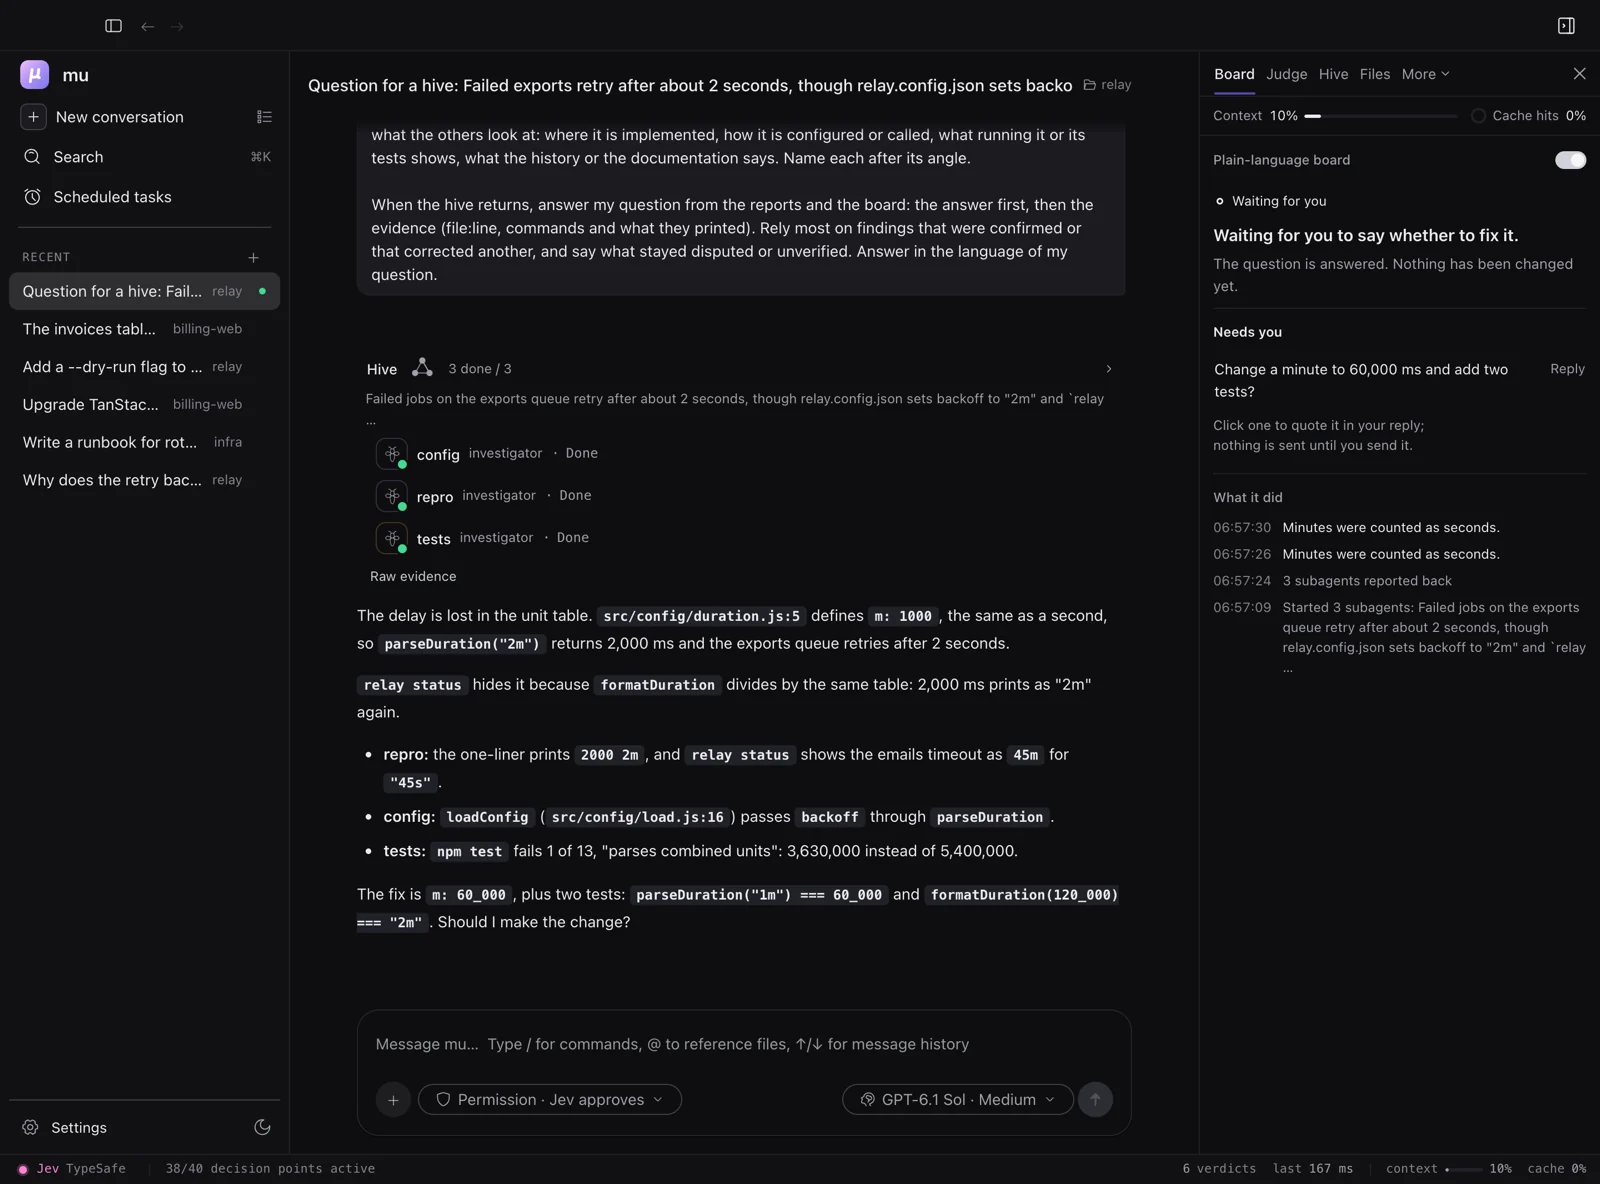
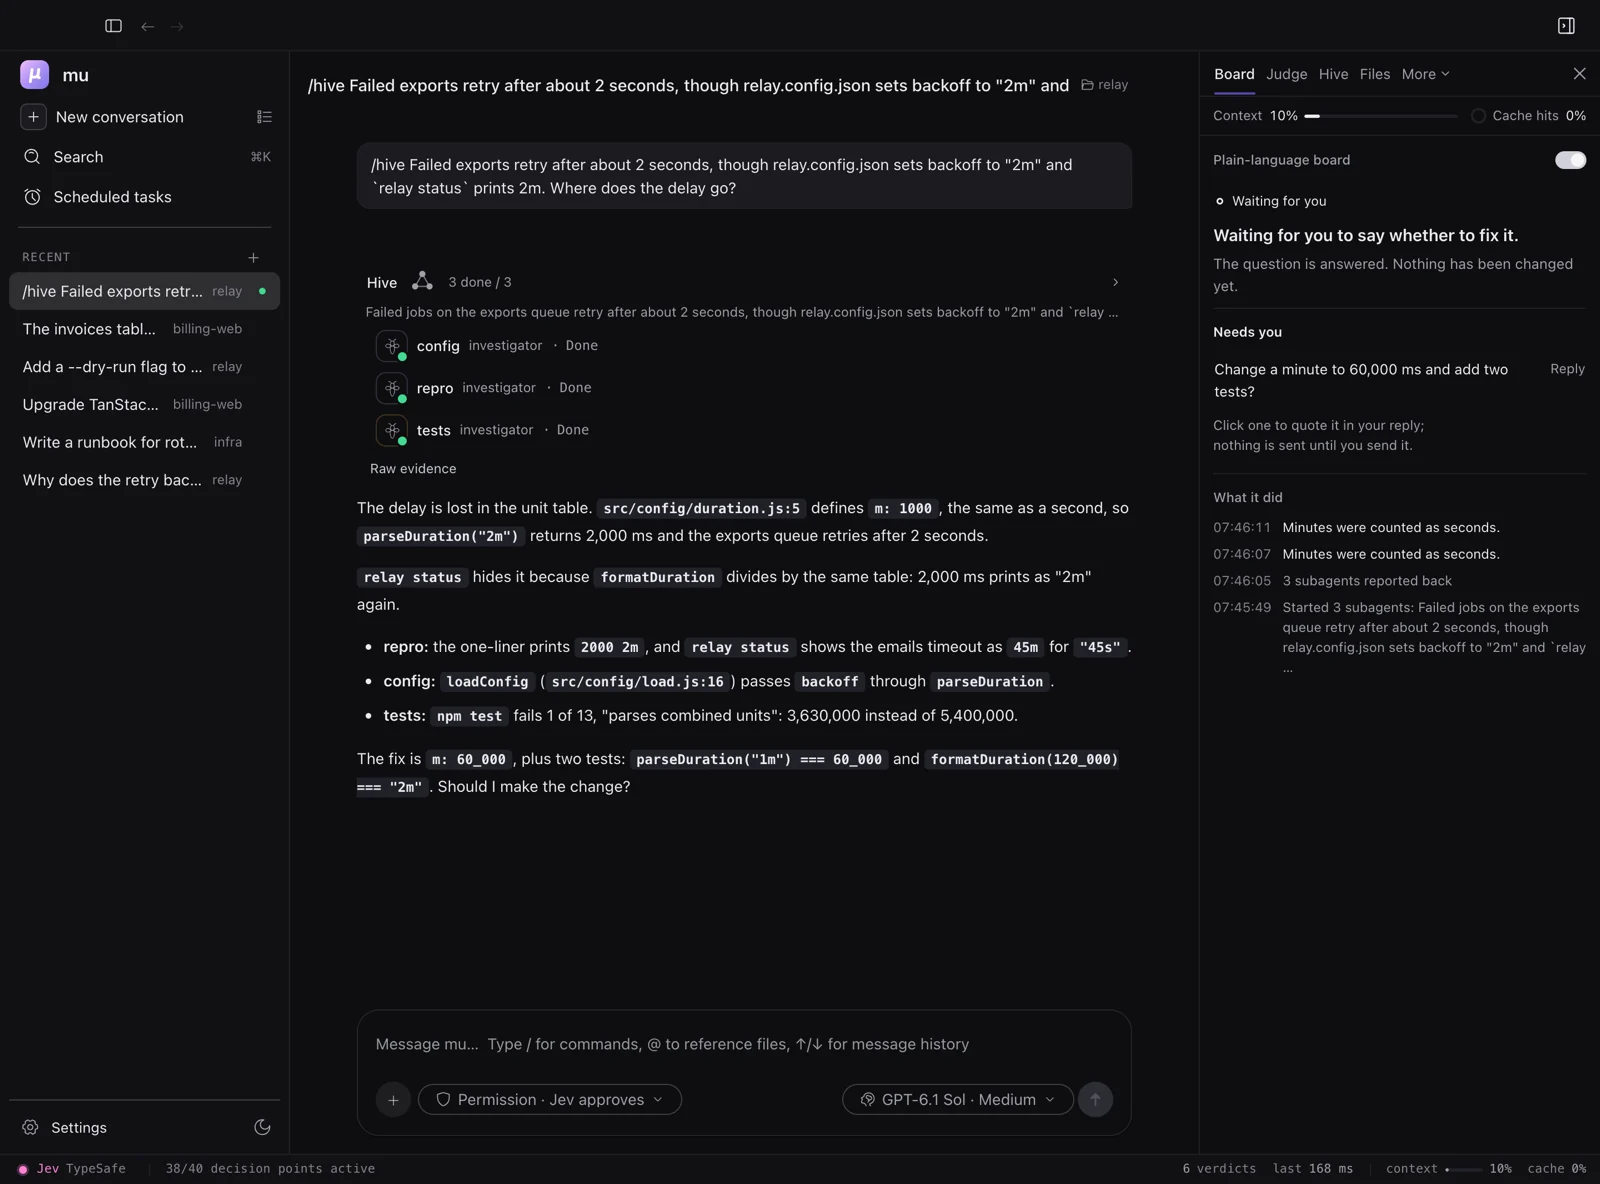
fix(kyrn-judge): /hive shows what you typed; the request to the model goes as a hidden message
`/hive <question>` sent its whole request as the user message, so the chat bubble and the
conversation's title held a paragraph written for the model ("Question for a hive: ... Call the
`hive` tool now ... When the hive returns ..."), in English even in a Chinese session.

The command now sends what was typed as the user message, and `before_agent_start` adds the request
to that turn as a custom message with display: false (kyrn.hive-request), which the model reads and
the TUI and the desktop app don't show. A /hive queued behind a running turn joins that loop, where
no new turn starts to attach the message to, so it still sends the request as its message.

The README and site Hive and board pictures are taken again with the change.

diff --git a/packages/kyrn-judge/src/extension/features/hive.ts b/packages/kyrn-judge/src/extension/features/hive.ts
@@ -640,20 +640,37 @@ export function registerHive(runtime: KyrnRuntime, runner: SwarmRunner = spawnRu
 /** How long `/hive` in print mode waits for the turn it asked for to start. It takes that long only when something is wrong. */
 const TURN_START_MS = 60_000;
 
+/** Custom message type of the request to start a hive: the model reads it, the chat does not show it. */
+export const HIVE_REQUEST_ENTRY = "kyrn.hive-request";
+
 /**
  * `/hive <question>`: a person asks for a hive. The command sends the question
  * with the request to put a hive on it at once (`hiveRequest`); the main model
  * plans the bees, because it knows the project and the angles. Without a
  * question, `/hive` is `/swarm`, as it always was.
  *
- * The request is a user message the command sends, so the turn runs as a typed
- * message's would. Print mode is the exception: it ends the process when the
- * command returns, so there the command waits for the turn it started to end.
+ * The command sends what was typed as a user message, so the turn runs as a
+ * typed message's would and the chat shows `/hive <question>`. The request goes
+ * with it as a hidden message of that turn: it is written for the model, in
+ * English, and would otherwise sit in the person's bubble. Print mode ends the
+ * process when the command returns, so there the command waits for the turn it
+ * started to end.
  */
 function registerHiveCommand(runtime: KyrnRuntime): void {
 	const { pi } = runtime;
 	/** The turn a waiting `/hive` asked for: whether it has started, and what to call when it is over. */
 	let waiting: { started: boolean; over: () => void } | undefined;
+	/** The request for the turn `/hive` is about to start, matched by what it sends as the user message. */
+	let request: { typed: string; text: string } | undefined;
+	pi.on(
+		"before_agent_start",
+		failOpen((event) => {
+			const pending = request;
+			request = undefined;
+			if (!pending || event.messageType !== "user" || event.prompt !== pending.typed) return undefined;
+			return { message: { customType: HIVE_REQUEST_ENTRY, content: pending.text, display: false } };
+		}),
+	);
 	pi.on(
 		"agent_start",
 		failOpen(() => {
@@ -716,9 +733,10 @@ function registerHiveCommand(runtime: KyrnRuntime): void {
 				refuse("No model is selected. Run /login, then /model.");
 				return;
 			}
-			const request = hiveRequest(asked.question);
 			if (!ctx.isIdle()) {
-				pi.sendUserMessage(request, { deliverAs: "followUp" });
+				// A queued message joins the running loop, which starts no new turn to attach the request to:
+				// the request goes in the message itself.
+				pi.sendUserMessage(hiveRequest(asked.question), { deliverAs: "followUp" });
 				ctx.ui.notify("The hive will start when the current turn ends.", "info");
 				return;
 			}
@@ -731,7 +749,8 @@ function registerHiveCommand(runtime: KyrnRuntime): void {
 			// Without credentials pi refuses the request with an error of its own; there is no turn to wait for.
 			const wait = (ctx.mode === "print" || ctx.mode === "json") && ctx.modelRegistry.hasConfiguredAuth(ctx.model);
 			const over = wait ? untilTurnEnds() : undefined;
-			pi.sendUserMessage(request);
+			request = { typed, text: hiveRequest(asked.question) };
+			pi.sendUserMessage(typed);
 			await over;
 		},
 	});

diff --git a/packages/kyrn-judge/test/hive-command.test.ts b/packages/kyrn-judge/test/hive-command.test.ts
@@ -5,6 +5,7 @@ import { Type } from "typebox";
 import { afterEach, beforeEach, describe, expect, it, vi } from "vitest";
 import { createHarness, getUserTexts, type Harness } from "../../coding-agent/test/suite/harness.ts";
 import { parseConfig } from "../src/config.ts";
+import { HIVE_REQUEST_ENTRY } from "../src/extension/features/hive.ts";
 import type { SwarmRunner } from "../src/extension/features/swarm.ts";
 import { createKyrnJudgeExtension } from "../src/extension/kyrn-judge.ts";
 import { hiveRequest, parseHiveArgs } from "../src/hive/request.ts";
@@ -107,6 +108,14 @@ describe("/hive in a session", () => {
 		return notes;
 	}
 
+	/** The hive requests in the session that the chat does not show. */
+	const hiddenRequests = (harness: Harness) =>
+		harness.session.messages.flatMap((message) =>
+			message.role === "custom" && message.customType === HIVE_REQUEST_ENTRY && message.display === false
+				? [message.content]
+				: [],
+		);
+
 	const toolResult = (harness: Harness) =>
 		JSON.stringify(harness.session.messages.find((message) => message.role === "toolResult"));
 
@@ -125,7 +134,9 @@ describe("/hive in a session", () => {
 		await harness.session.prompt(`/hive ${QUESTION}`);
 
 		expect(harness.getPendingResponseCount()).toBe(0);
-		expect(getUserTexts(harness)).toEqual([hiveRequest(QUESTION)]);
+		// The chat shows what was typed; the request rides along as a message only the model reads.
+		expect(getUserTexts(harness)).toEqual([`/hive ${QUESTION}`]);
+		expect(hiddenRequests(harness)).toEqual([hiveRequest(QUESTION)]);
 		expect(asked).toContain("Question for a hive: Why does login fail only in CI?");
 		expect(bees).toEqual(["where", "config", "run"]);
 		expect(toolResult(harness)).toContain("where: found it");
@@ -149,7 +160,8 @@ describe("/hive in a session", () => {
 		release();
 		await vi.waitFor(() => expect(harness.getPendingResponseCount()).toBe(0));
 		await harness.session.waitForIdle();
-		expect(getUserTexts(harness)).toEqual([hiveRequest(QUESTION)]);
+		expect(getUserTexts(harness)).toEqual([`/hive ${QUESTION}`]);
+		expect(hiddenRequests(harness)).toEqual([hiveRequest(QUESTION)]);
 		expect(JSON.stringify(harness.session.messages.at(-1))).toContain("The answer.");
 		expect(notes).toEqual([]);
 	});

diff --git a/packages/kyrn-judge/src/hive/request.ts b/packages/kyrn-judge/src/hive/request.ts
@@ -29,10 +29,11 @@ export function parseHiveArgs(args: string): HiveArgs {
 }
 
 /**
- * The user message `/hive <question>` sends. The model reads it; the person sees it in the chat, so it starts
- * with the question. Three bees is the default because two rarely have anything to pass each other and more
- * than four mostly repeat each other; the angles are ones whose findings bear on each other, since that is
- * what a hive is for (independent parts are `delegate`'s job).
+ * What `/hive <question>` asks of the model. It goes with the person's `/hive <question>` as a hidden message of
+ * that turn; only a `/hive` queued behind a running turn sends it as the message itself, so it starts with the
+ * question. Three bees is the default because two rarely have anything to pass each other and more than four
+ * mostly repeat each other; the angles are ones whose findings bear on each other, since that is what a hive is
+ * for (independent parts are `delegate`'s job).
  */
 export function hiveRequest(question: string): string {
 	return [

diff --git a/kyrn/npm/CHANGELOG.md b/kyrn/npm/CHANGELOG.md
@@ -9,6 +9,7 @@
 ### Fixed
 
 - With a Jev key (TypeSafe), the welcome screen and each verdict line name the judge `Jev`, not its model id `jev-latest`. A versioned Jev on OpenCode Zen shows as `Jev 1.13`.
+- `/hive <question>` shows what you typed in the chat and as the conversation's title. The request to start a hive at once, written for the model in English, goes with it as a message only the model reads; before, it filled your message, also in a Chinese session. A `/hive` sent while a turn runs still sends the request as its message.
 - The footer's line after each message reads like the verdict line, `Jev: multi-step task · full effort · 71 ms`, instead of `jev-latest active: multi_step_task -> heavy 71ms`. A verdict in shadow mode ends with `recorded only`.
 - `planHost` names the script the command line runs pi with (`cli`: `dist/bundle/cli.js` in the package, `packages/coding-agent/src/cli.ts` in a checkout). The desktop app's host hands it to pi as `process.argv[1]`, so the sub-agents pi starts by running that script again (`hive`, `delegate`, the swarm) no longer fail with "The mu host needs a parent".
 - With no model connected, `mu -p` and the other no-key errors now say to run `mu setup`, instead of pointing to `/login` (which only exists inside a session) and two files inside the package.
